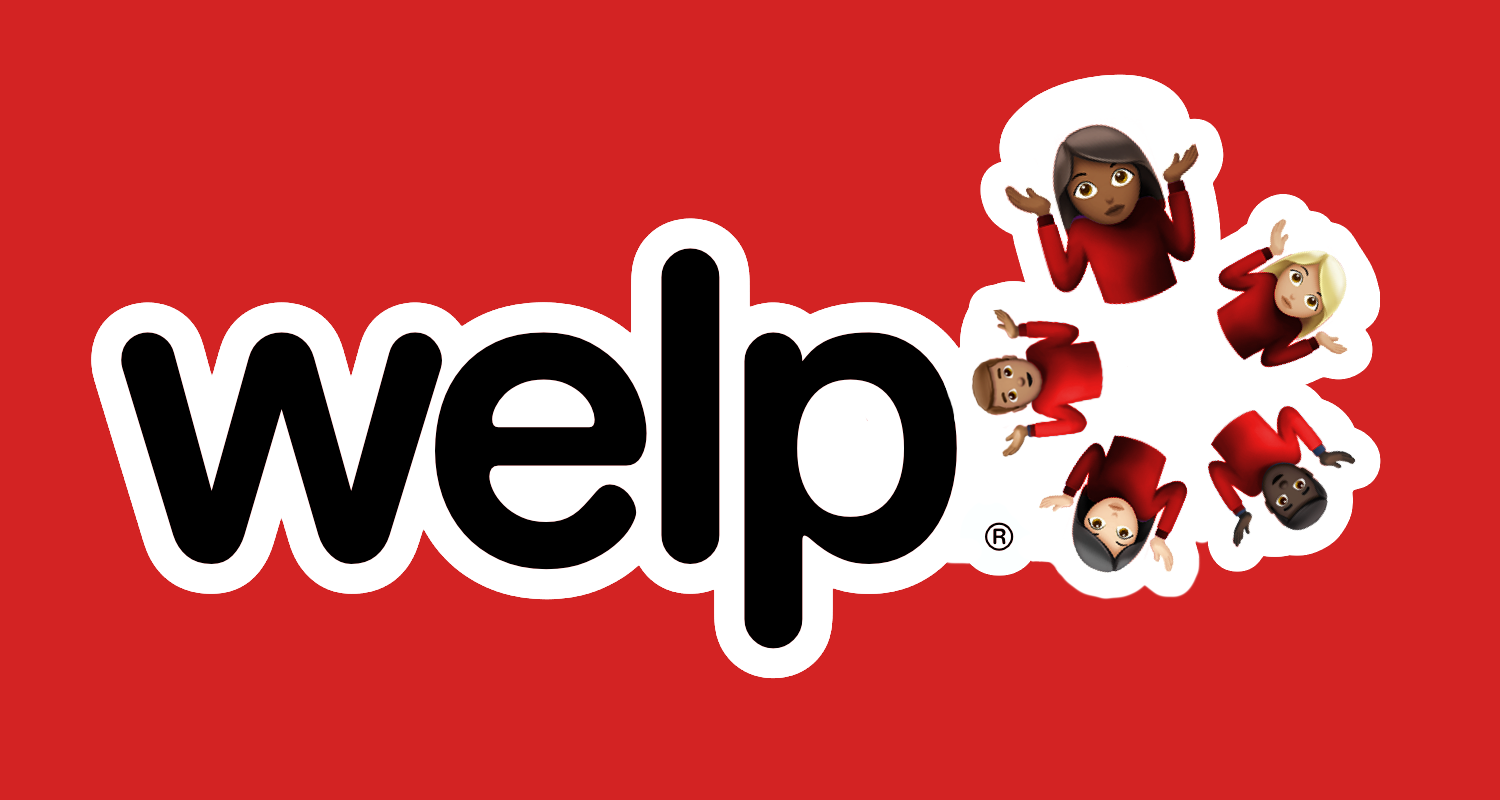
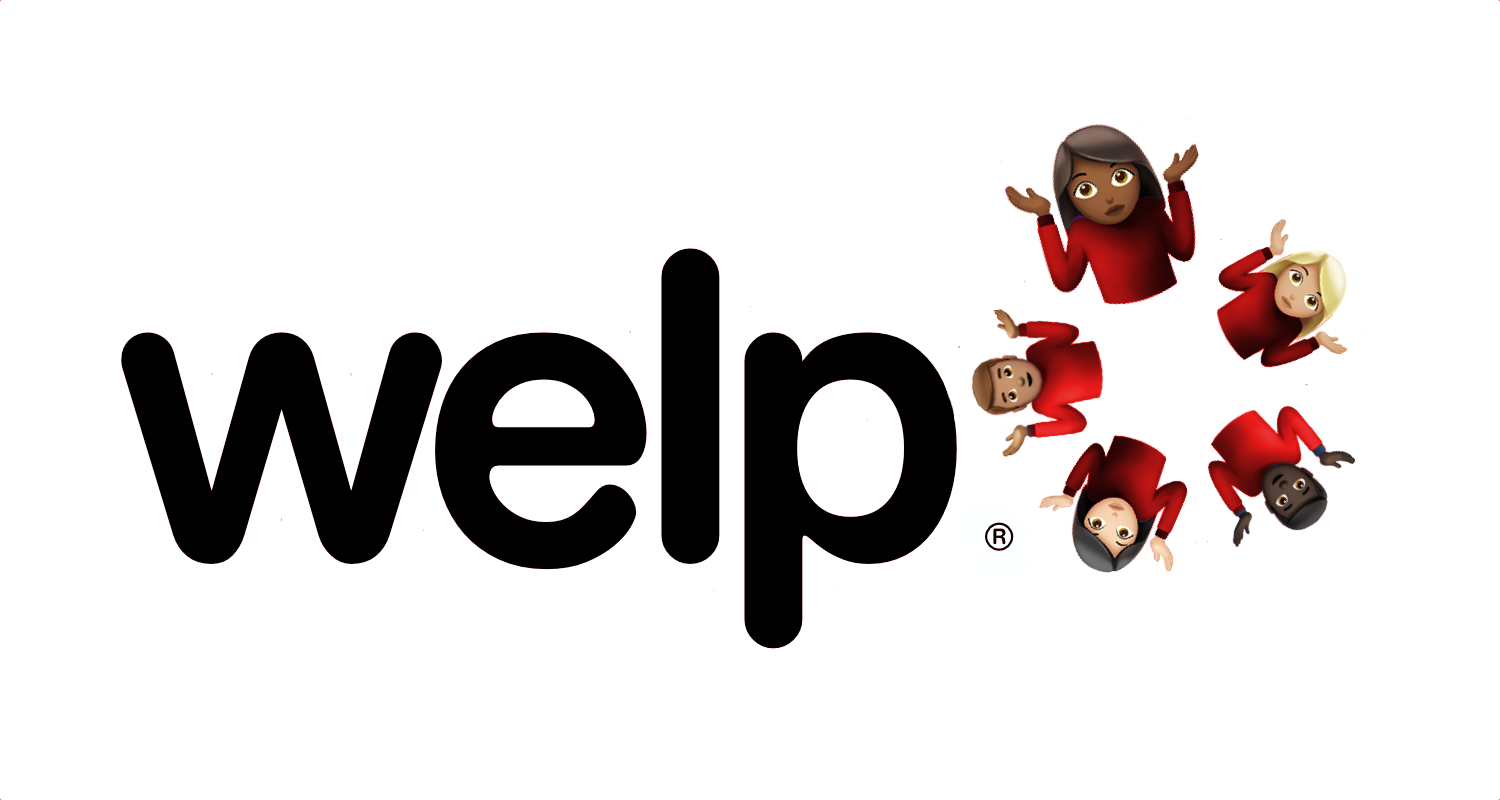
The red is... wrong?

diff --git a/public/index.html b/public/index.html
@@ -6,7 +6,7 @@
 
     <title>Welp</title>
     <meta name="description" content="We're just a parody of Yelp to show off GraphQL. Please don't sue us.">
-    <meta name="og:image" content="http://welp.reviews/welp.png">
+    <meta name="og:image" content="http://welp.reviews/welp_red.png">
     <meta name="author" content="David Celis and Garen Torikian">
   </head>
 
